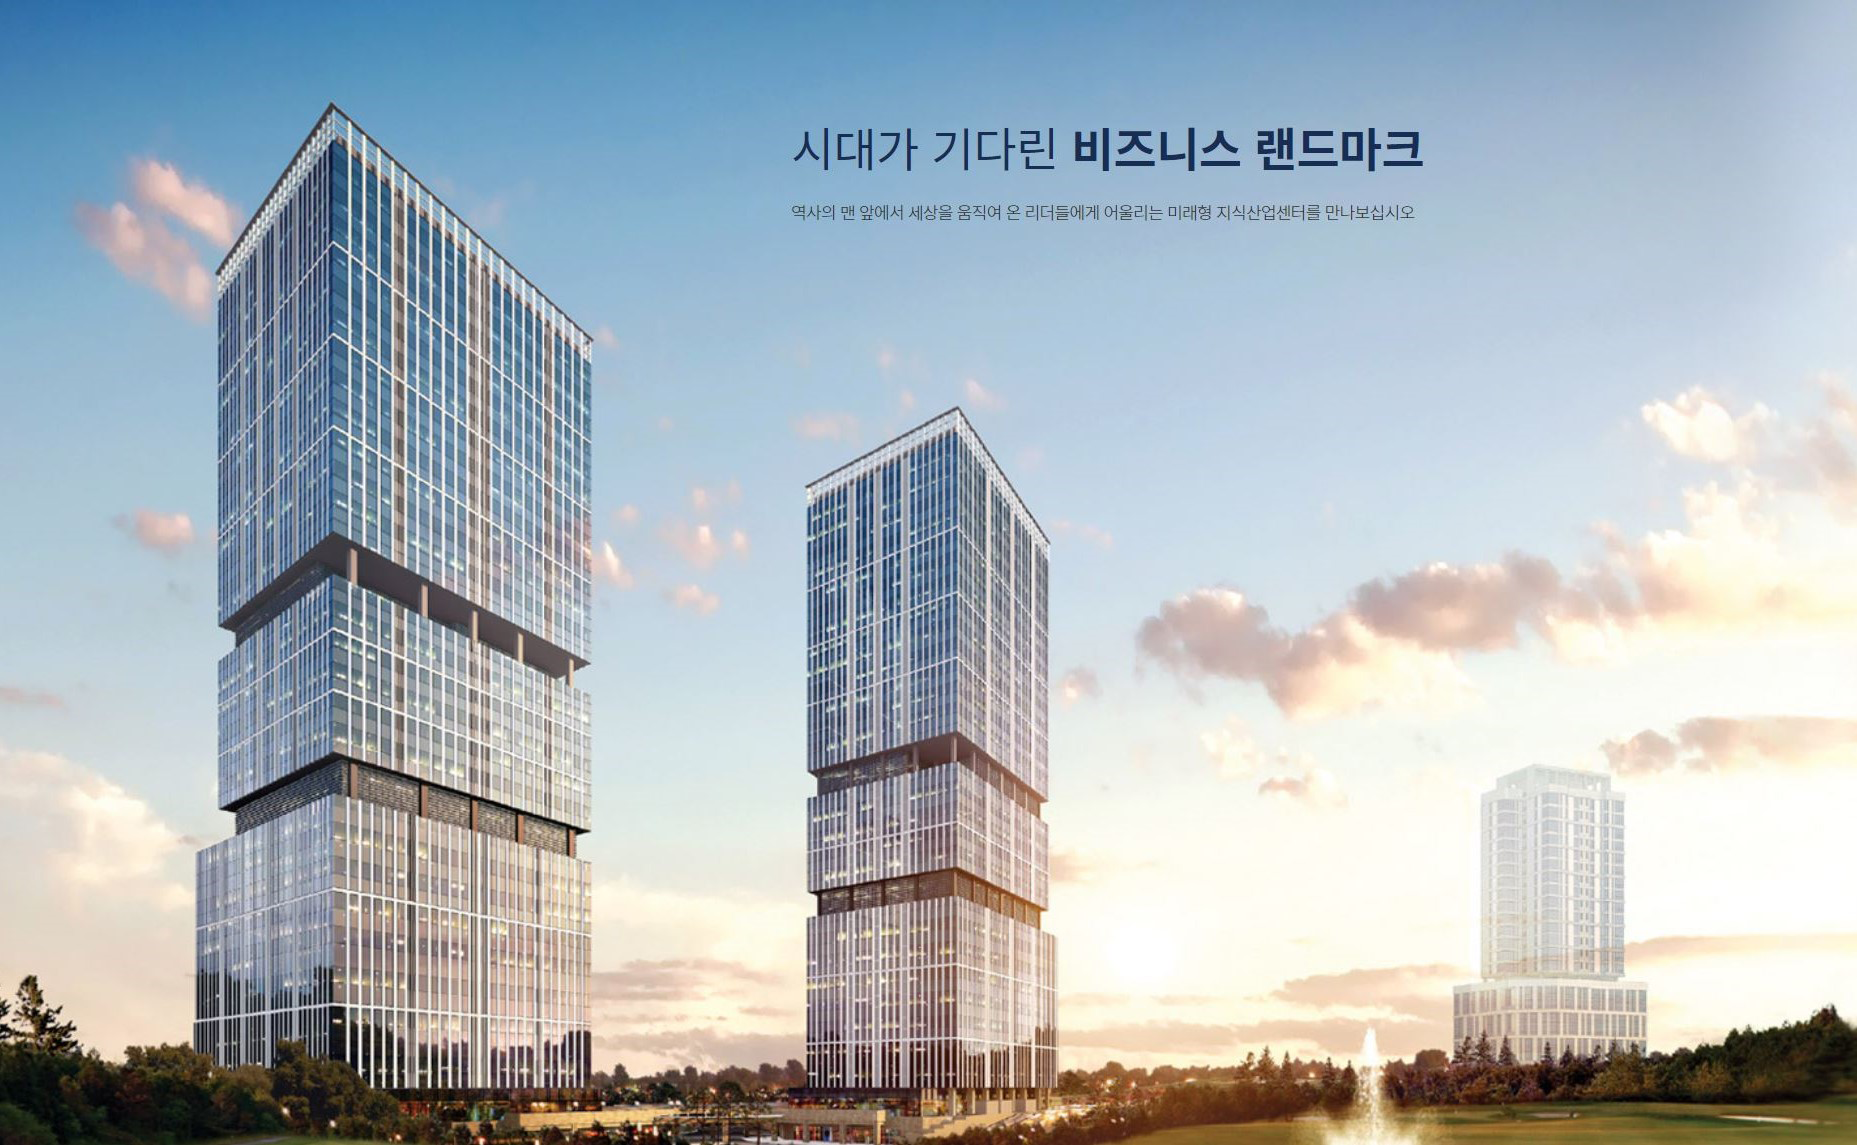
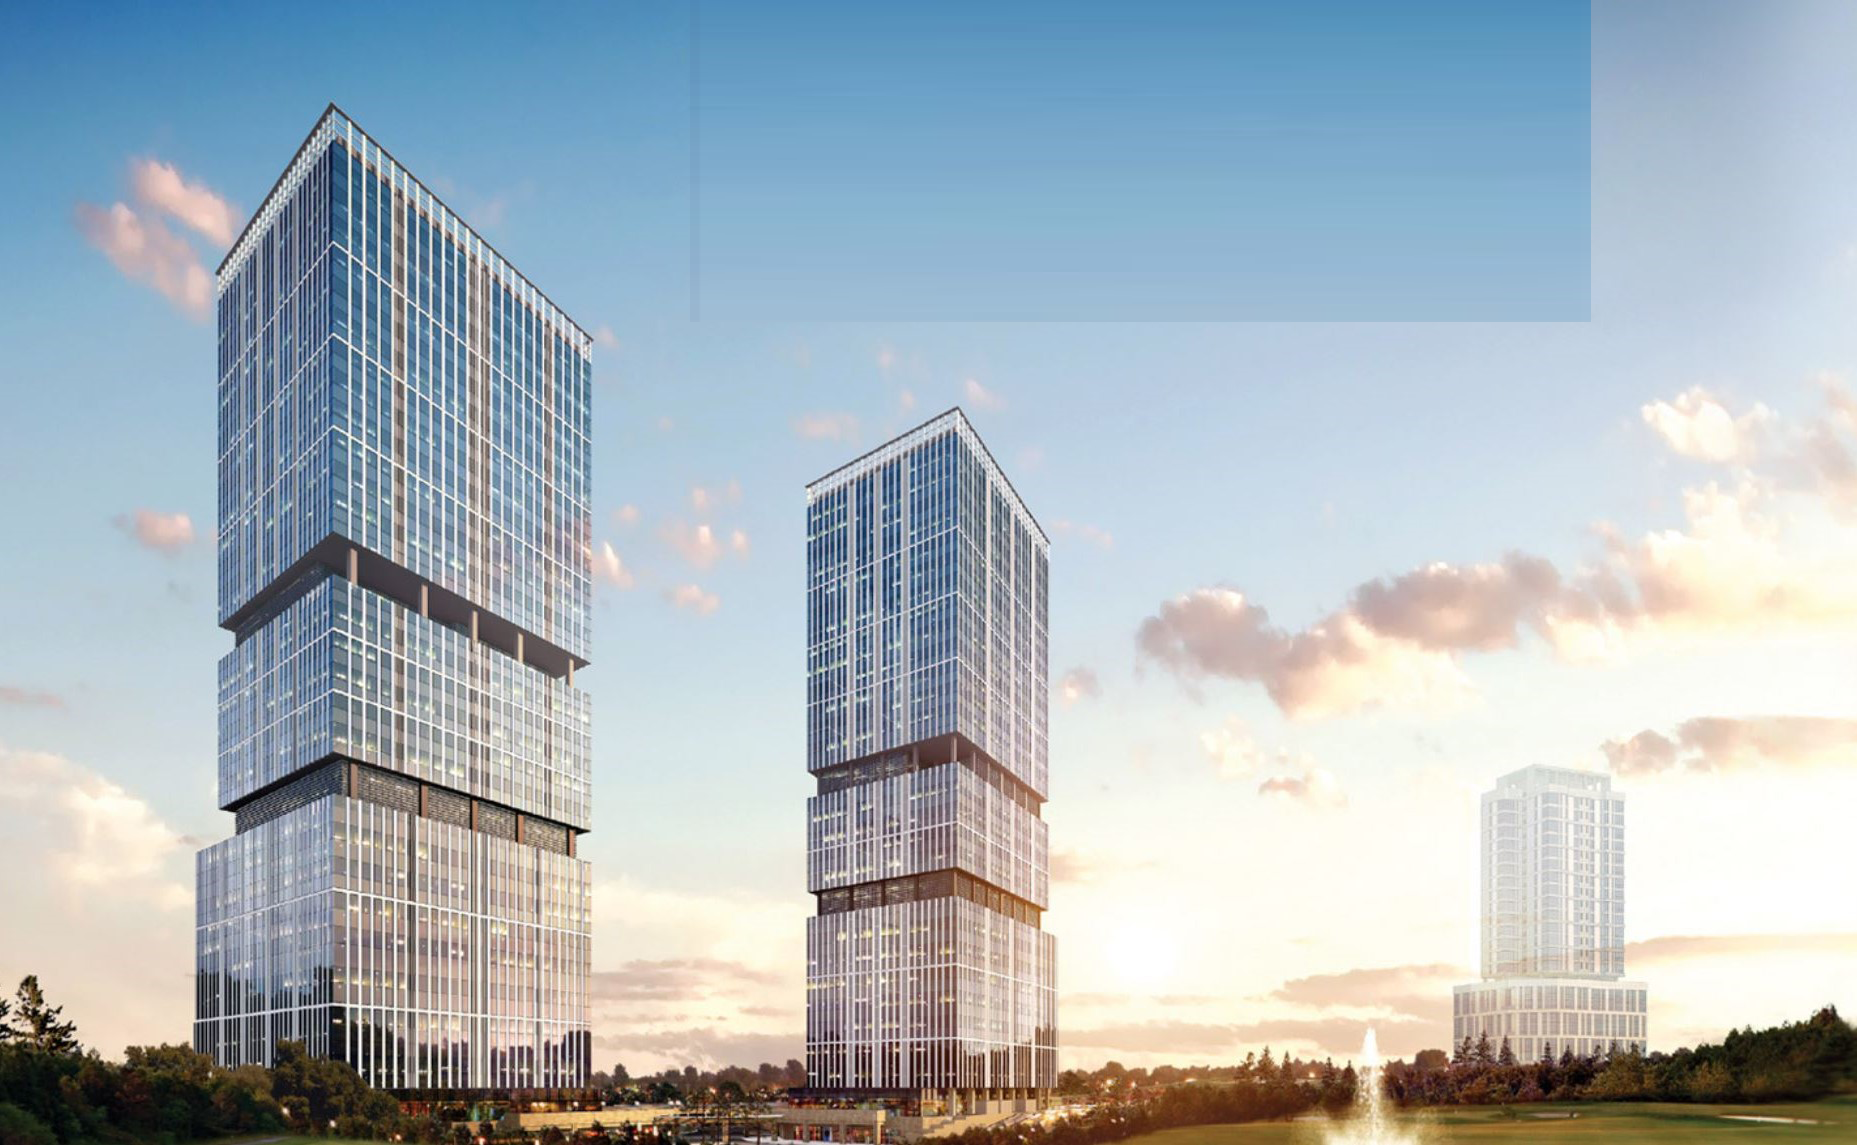
이미지 배경추가

Changed region(s): [[0.4373, 0.0, 0.8745, 0.3057]]

diff --git a/asset/css/main.css b/asset/css/main.css
@@ -286,9 +286,9 @@ h3.tle_h3.bullet_h3:before { content: ""; position: absolute; z-index: -1; displ
 #page3 { color: #fff; }
 #page3 > .history_bg { position: absolute; width: 100%; height: 100%; }
 #page3 > .history_bg > * { position: absolute; top: 0; left: 0; width: 100%; height: 100%; background: no-repeat top right/ cover; opacity: 0; -webkit-transition: opacity 1s; transition: opacity 1s; }
-#page3 > .history_bg > .on { opacity: 1; }
-#page3 > .history_bg .bg1 { background-image: url(..img/bg_history01.png); }
-#page3 > .history_bg .bg2 { background-image: url(../img/bg_history02.png); }
+#page3 > .history_bg > .on { opacity: 0.6; }
+#page3 > .history_bg .bg1 { background-image: url(../img/h_bg.png); }
+#page3 > .history_bg .bg2 { background-image: url(../img/h_bg.png); }
 #page3 > .history_bg .bg3 { background-image: url(../img/bg_history03.png); }
 #page3 > .wrap { position: relative; width: 90%; margin: 0 auto; }
 #page3 h3.tle_h3.bullet_h3 { margin: 158px 0 91px 0; }
